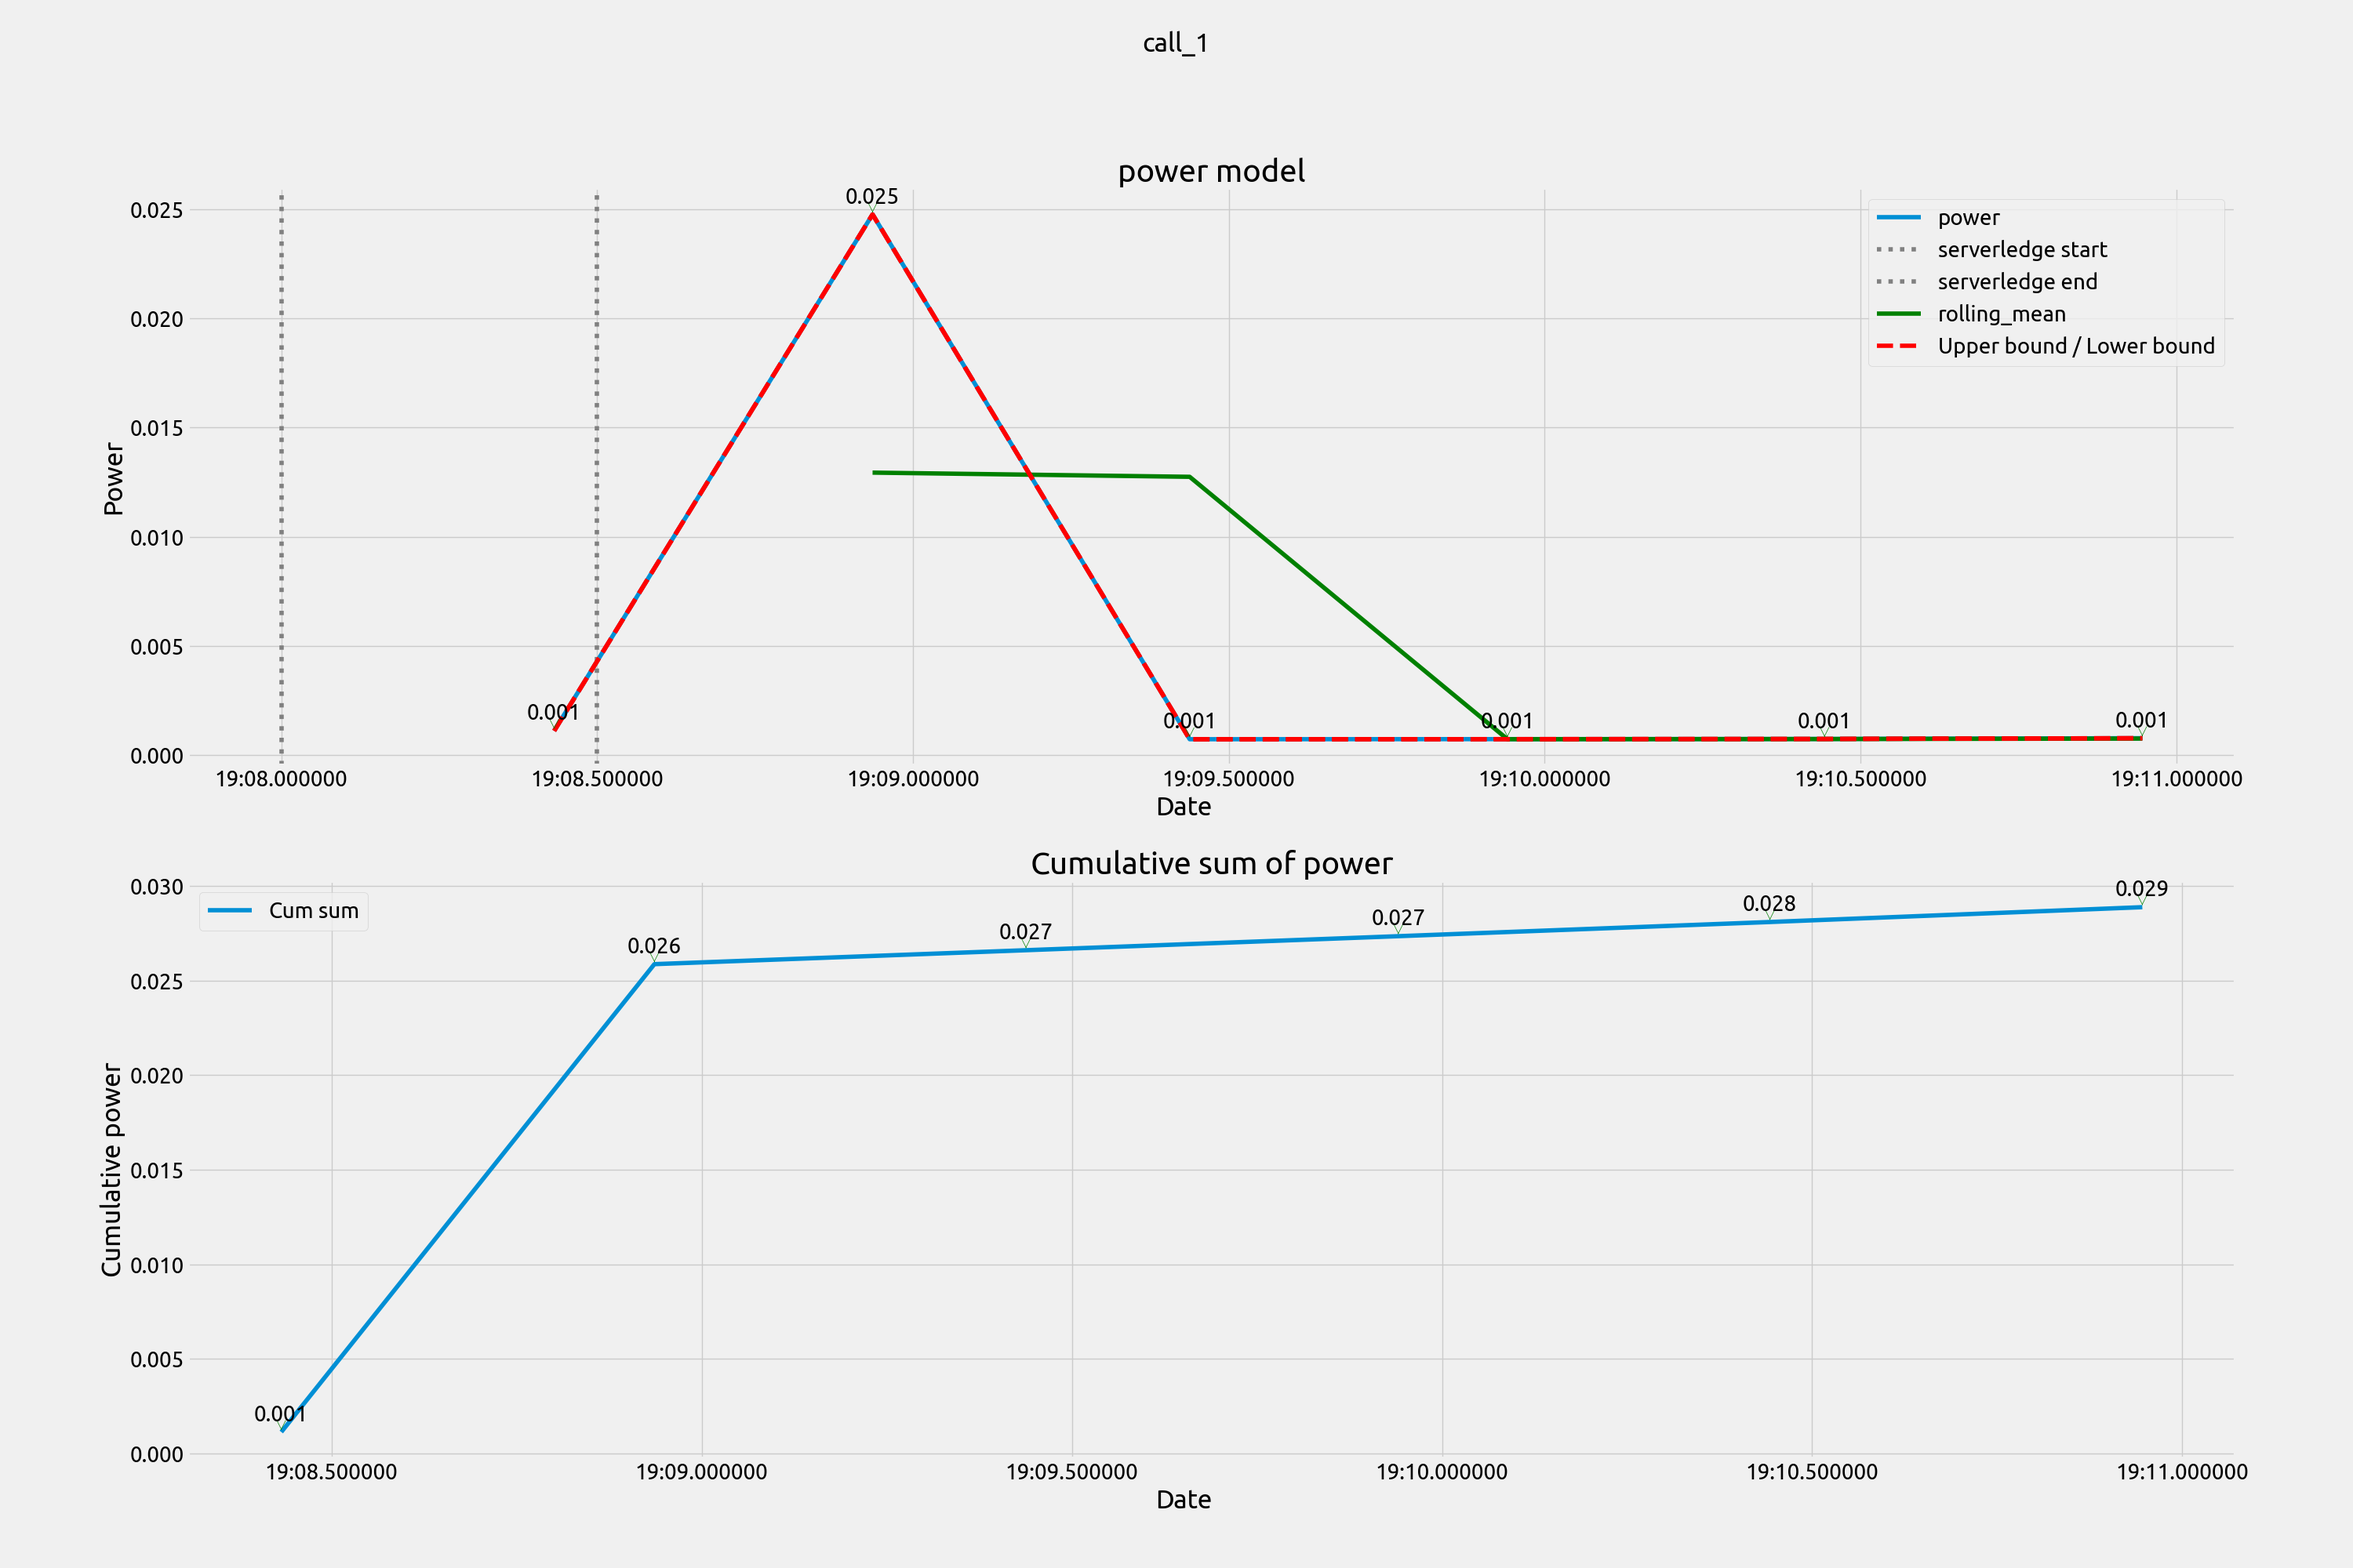
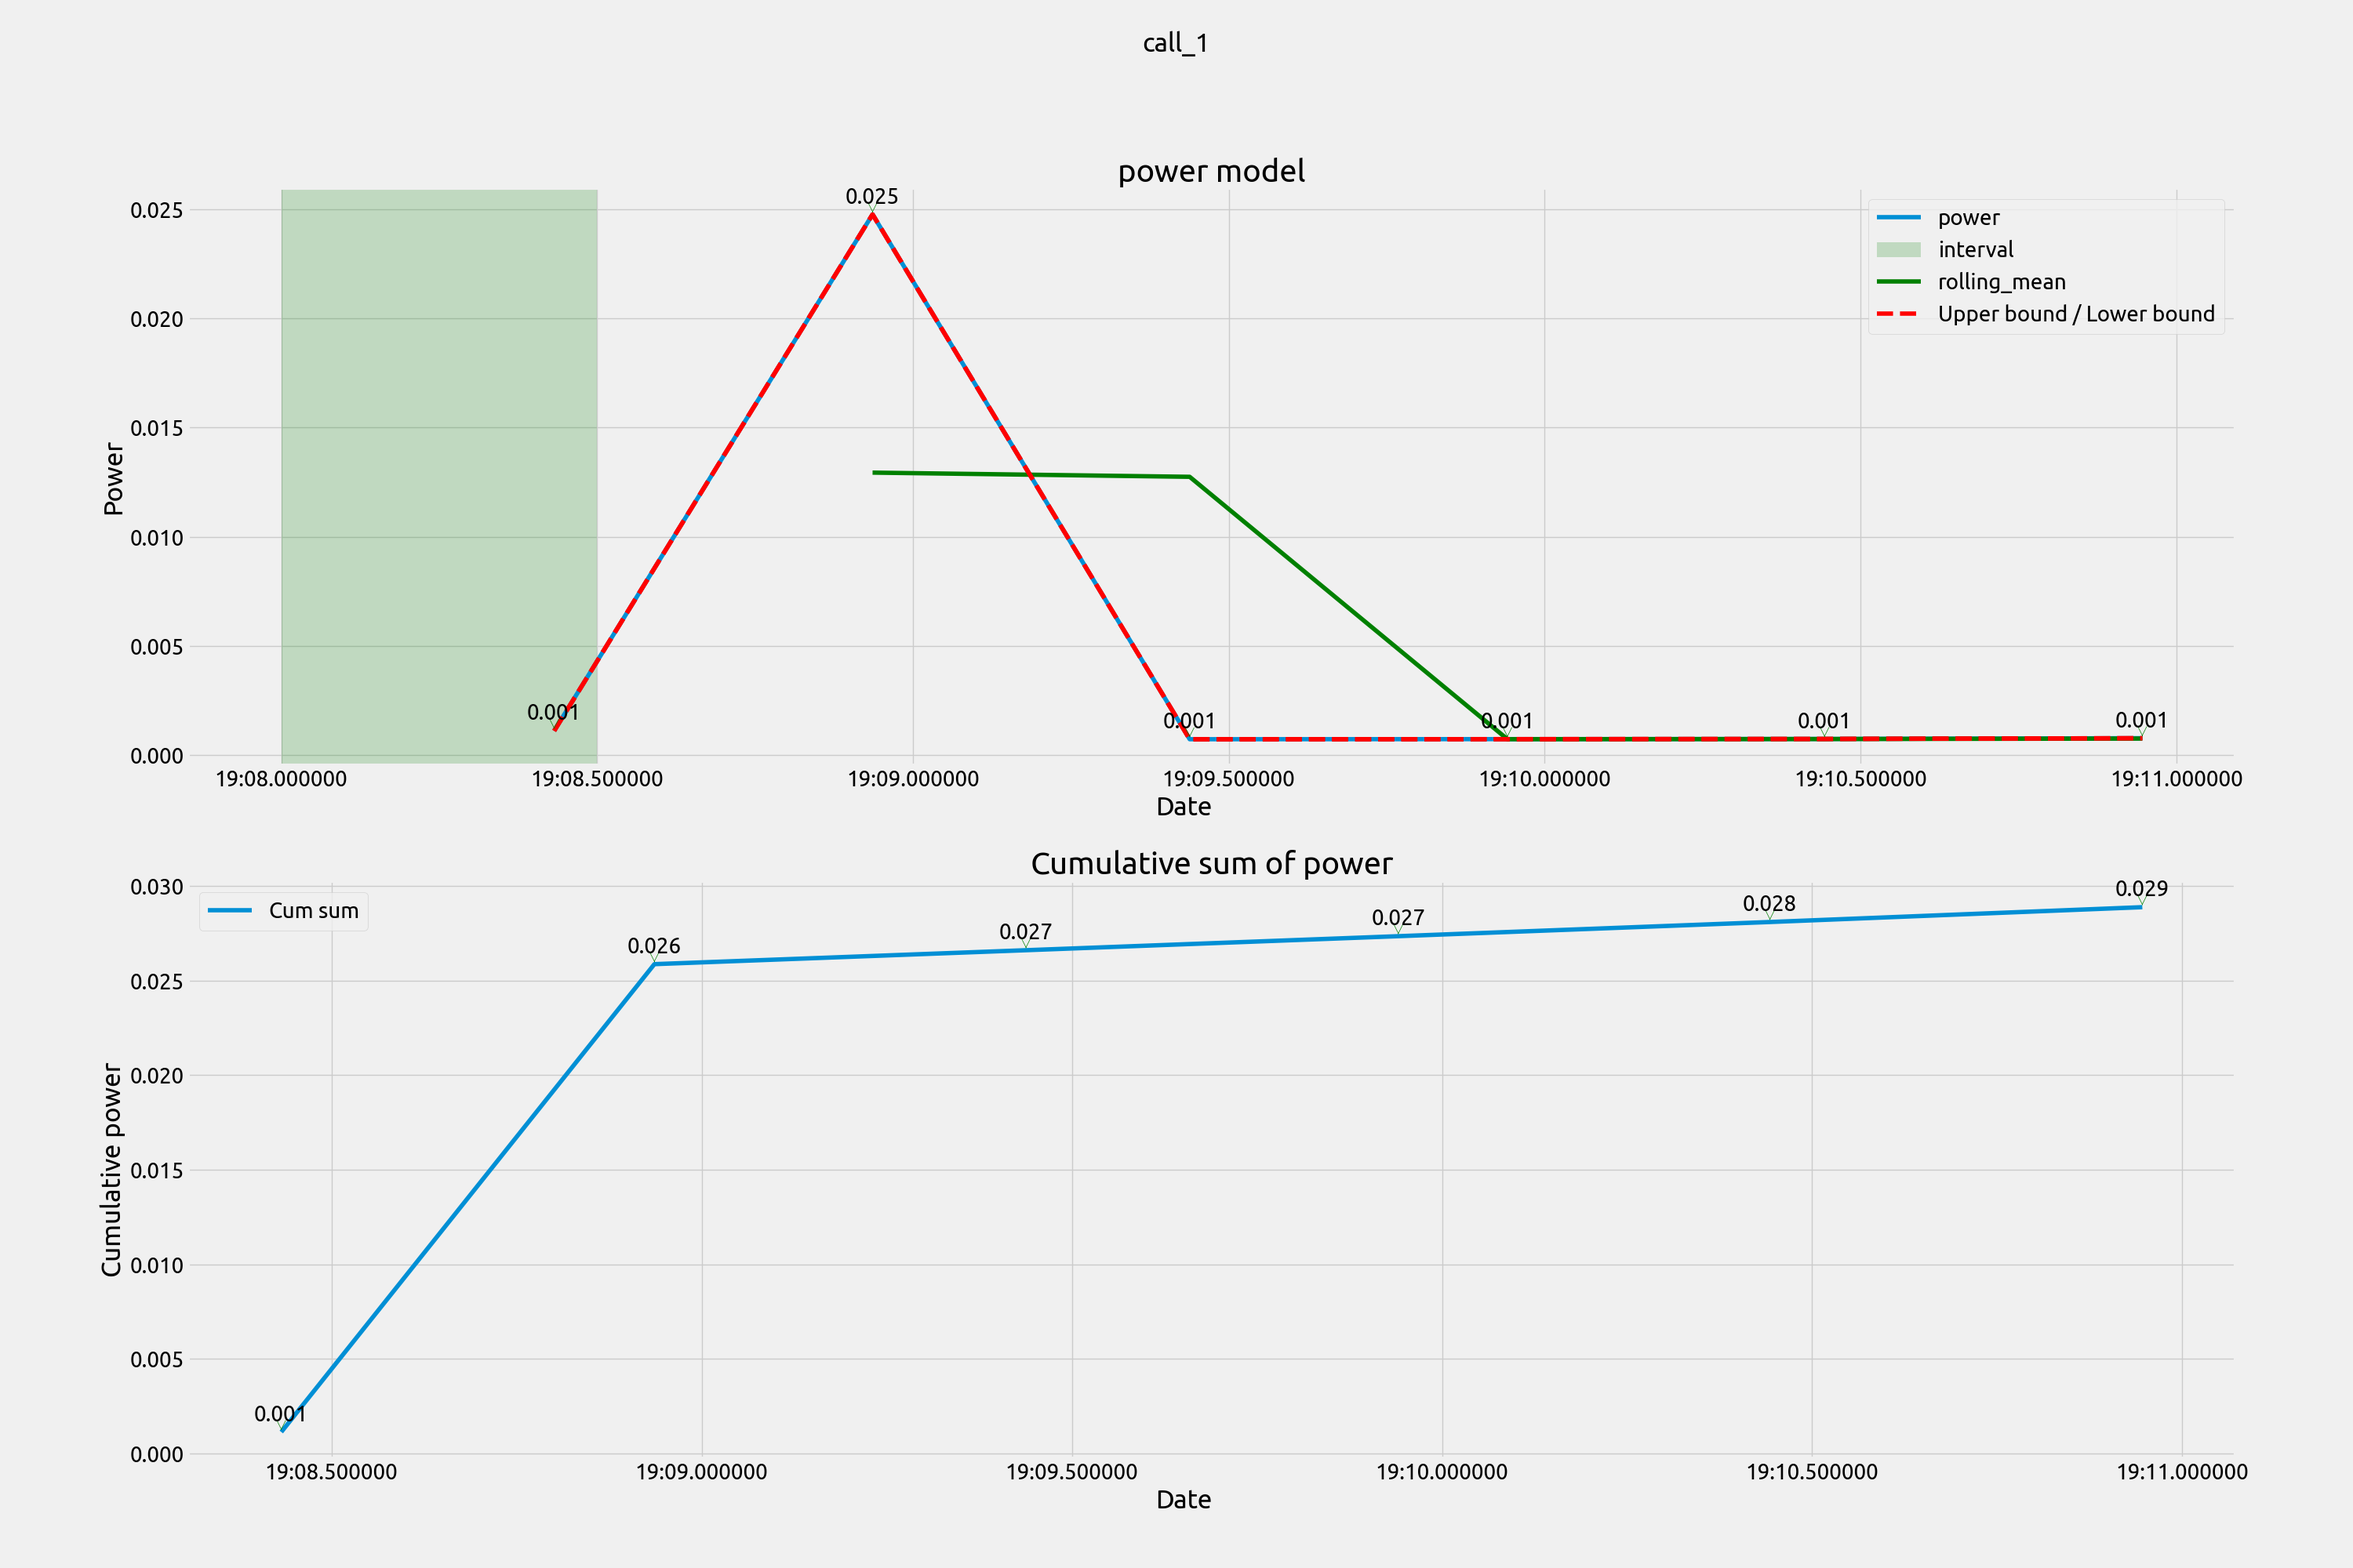
add interval

Changed region(s): [[0.093, 0.124, 0.279, 0.496], [0.775, 0.155, 0.93, 0.248]]

diff --git a/internals/energy.py b/internals/energy.py
@@ -50,8 +50,9 @@ def plotTimeSeries(dataframe,title,start,end):
     fig, axs = plt.subplots(2)
     fig.suptitle(title)
     axs[0].plot(dataframe.time, dataframe.power, label='power')
-    axs[0].axvline(start,color="gray", linestyle=":",label="serverledge start")
-    axs[0].axvline(end,color="gray", linestyle=":",label="serverledge end") 
+    
+    axs[0].axvspan(start,end,facecolor='g', alpha=0.2, label="interval")
+    #axs[0].axvline(end,color="gray", linestyle=":",label="serverledge end") 
     axs[0].plot(dataframe.time,dataframe['power'].rolling(2).mean(),label='rolling_mean',color='green')
     axs[0].set_title("power model")
     axs[0].set_xlabel(xlabel='Date', ha='right')
@@ -91,6 +92,8 @@ def plotTimeSeries(dataframe,title,start,end):
     axs[0].plot(dataframe.time,lower_bound, 'r--')
     axs[0].legend()
     axs[1].legend()
+   
+    
     plt.savefig("internals/"+title+".png")
     '''
 
@@ -104,7 +107,8 @@ def plotTimeSeries(dataframe,title,start,end):
     plt.title('Change Point Detection: Pelt Search Search Method :'+ title)
     plt.savefig("internals/cp_"+title+".png")
    '''
-    
+  
+  
 def plot_a_call(df,event_start,event_duration,title) : 
     print("\nplot ", title)
     print("start ",event_start)
